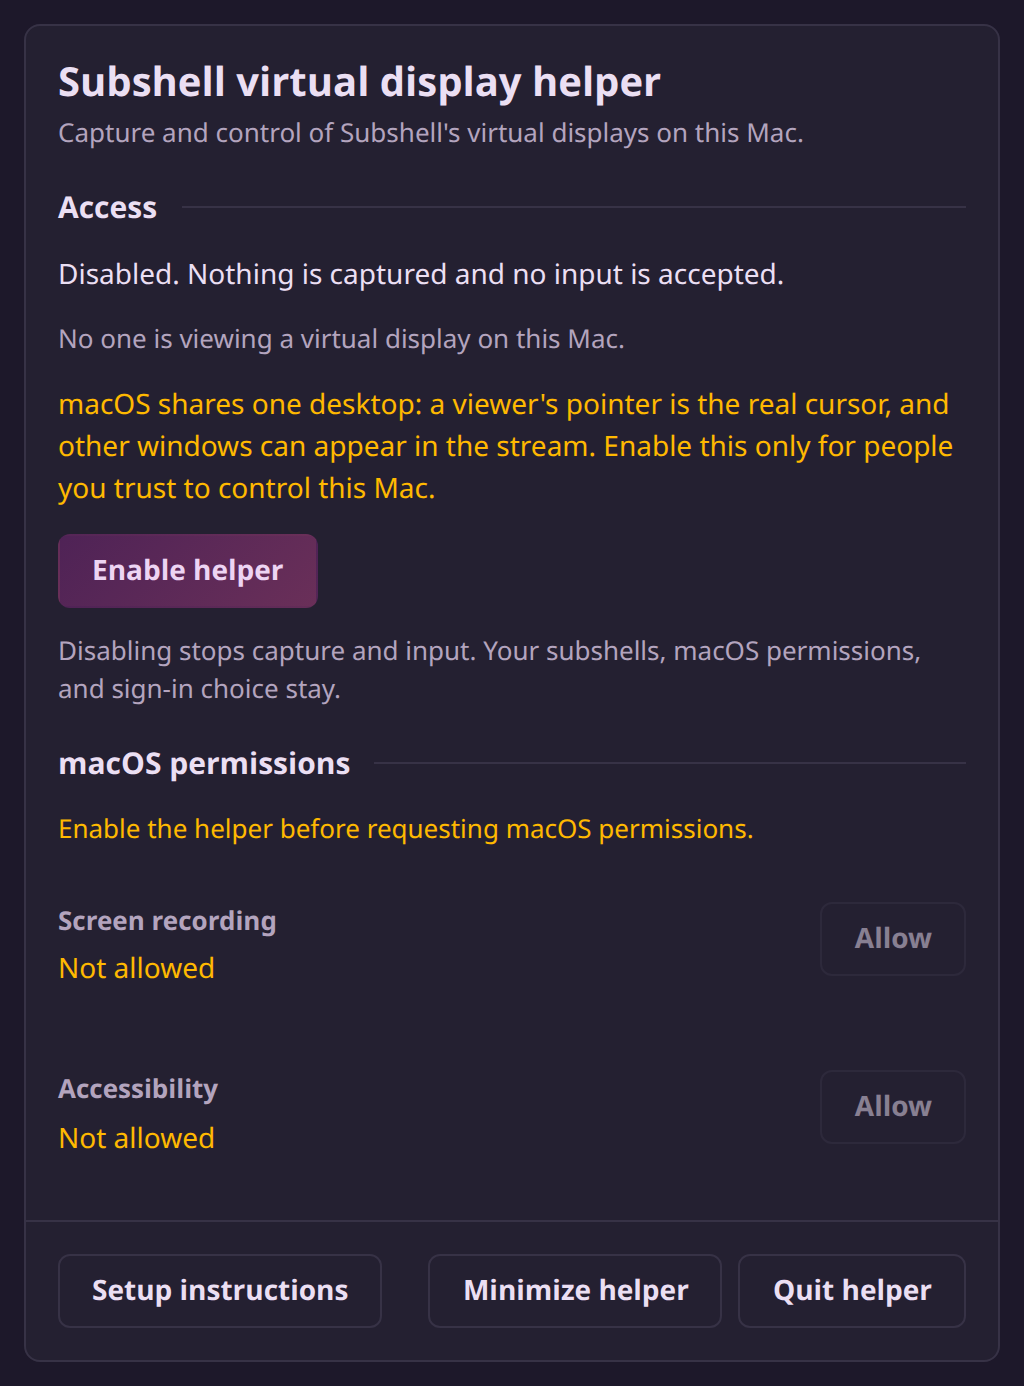
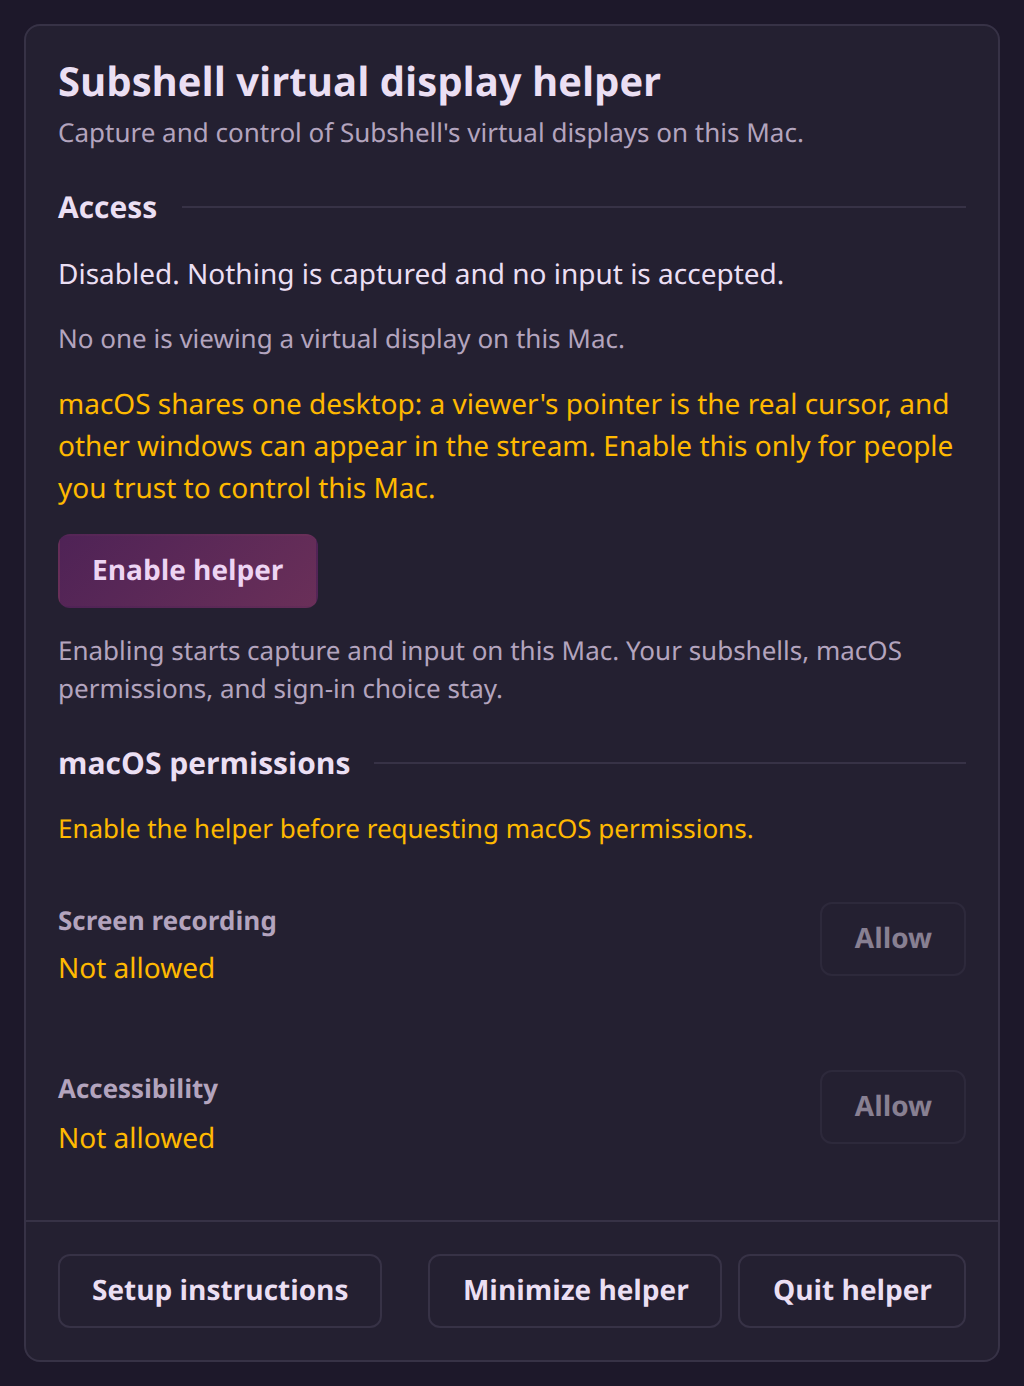
fix(web,helper): the consent note names its own act, and one answer per page load
The panel served one note for both states of the consent button, so a screen
reader reaching "Enable helper" heard "Disabling stops capture and input". The
person deciding whether this Mac may be captured has only that announcement to
work from, and it described the opposite act. There are two sentences now,
picked by `state.enabled`, each tested to name its own button's verb and neither
promising a sign-in registration. The published enable-state screenshot was
re-captured with the corrected line.

The diagnostics preference had the same class of disagreement across two
surfaces. When the device refuses the write (private mode, quota), the header's
menu item bound to the set it attempted while the dock terminal re-read a store
that never changed, so the check appeared over a terminal that kept showing
nothing, and turning it off diverged worse. The module now keeps the page-load
answer once a write has been refused, so every instance on the page agrees, and
the test drives the pair rather than the one toggle that used to satisfy it.
The memory is module state, so both suites reset it: a leaked refused write
would otherwise answer for the next file in the shared worker.

Also collapsed the stacked duplicate comments my own edits left on the refusal
routing (two JSDoc blocks over one declaration, the older one describing the
pre-fix rule), and mirrored tmux's digit guard into the join probe's cursor read
[…]

Changed region(s): [[0.0625, 0.4654, 0.9062, 0.5274]]

diff --git a/apps/server/web/src/components/__tests__/workspace-pane-actions.test.tsx b/apps/server/web/src/components/__tests__/workspace-pane-actions.test.tsx
@@ -12,7 +12,7 @@ import { act, cleanup, fireEvent, render, renderHook, screen, waitFor } from "@t
 import { PaneFocusHeader } from "@/components/pane-focus-header";
 import { usePublishPaneDevices } from "@/hooks/use-pane-devices";
 import { usePaneDiagnostics } from "@/hooks/use-pane-diagnostics";
-import { paneDiagnosticsIds } from "@/lib/pane-diagnostics-pref";
+import { paneDiagnosticsIds, resetPaneDiagnosticsPrefForTests } from "@/lib/pane-diagnostics-pref";
 import { SUBSHELLS_QUERY_KEY } from "@/lib/query-keys";
 import { resetWorkspaceFocusForTests, setWorkspaceFocusedId } from "@/lib/workspace-focus";
 import type { SubshellView } from "@/types/subshell";
@@ -115,7 +115,7 @@ it("still switches the Diagnostics HUD on when the device refuses to store it", 
   // `localStorage.setItem = ...` would not simulate that here: happy-dom's
   // Storage is a proxy, so the assignment lands as a stored key and the real
   // write still happens. Swapping the global does block it, and the descriptor
-  // goes back in `finally` — happy-dom's localStorage is process-wide, and a
+  // goes back in `finally`: happy-dom's localStorage is process-wide, and a
   // leaking thrower would poison every later test in this worker.
   localStorage.removeItem("subshell.paneDiagnostics");
   const descriptor = Object.getOwnPropertyDescriptor(globalThis, "localStorage");
@@ -132,15 +132,25 @@ it("still switches the Diagnostics HUD on when the device refuses to store it", 
     writable: true,
   });
   try {
-    const { result } = renderHook(() => usePaneDiagnostics("first"));
-    act(() => result.current[1]());
-    expect(result.current[0]).toBe(true);
+    // Two instances, the way the workspace really has them: the header's menu
+    // and the dock terminal below it each hold their own hook. One binding to
+    // the attempted set while the other re-reads an unwritable store is the
+    // divergence this pins shut, so the assertion covers the pair, not the
+    // toggle that made it.
+    const { result: header } = renderHook(() => usePaneDiagnostics("first"));
+    const { result: terminal } = renderHook(() => usePaneDiagnostics("first"));
+    act(() => header.current[1]());
+    expect(header.current[0]).toBe(true);
+    expect(terminal.current[0]).toBe(true);
     // Only the first press is asserted: with the write refused the set never
     // accumulates anywhere, so a second press reads back empty and turns it on
     // again. That is the preference layer's behavior for every caller (the
     // subshell page reads the same way), not something this hook can fix.
   } finally {
     if (descriptor) Object.defineProperty(globalThis, "localStorage", descriptor);
+    // Same module, shared worker: the refused write left a page-load memory
+    // behind that the next file would otherwise read as its own truth.
+    resetPaneDiagnosticsPrefForTests();
   }
 });
 

diff --git a/apps/server/web/src/lib/create-subshell-error.ts b/apps/server/web/src/lib/create-subshell-error.ts
@@ -3,25 +3,23 @@ import { ApiError, errMessage } from "@internal/node-admin";
 
 /**
  * The words a create-path refusal carries when the VIRTUAL DISPLAY is what
- * failed, either as the thrown detail or inside the plane's remedy sentence
- * (the screen-launch mirror in `apps/server/api/src/modules/previews/refusals.ts`
+ * failed, either as the thrown detail or inside the plane's remedy sentence (the
+ * screen-launch mirror in `apps/server/api/src/modules/previews/refusals.ts`
  * names every node word, and the service's switch preflight names the same
- * `preview-node-off` voice the node's own launch gate uses). A refusal
- * carrying one of these is shown beside the Virtual display control it
- * belongs to, not at the bottom of the form: the design rule is that a
- * warning sits at the decision point, and these refusals are that checkbox's
- * result. `preview-node-off` is display-owned HERE because nothing else on
- * the create path can answer with it: browser previews are refused by the
- * view routes, not by `POST /api/subshells`.
- */
-/**
- * The mirror's own shape, not a bare substring: `screenLaunchRemedy` and the
- * service's switch preflight both finish the sentence with the word in a
- * parenthesized group at the tail (`… (preview-display-not-ready: …)`), and
- * that position is the only thing that tells this refusal apart from a person
- * whose PRESET happens to be named `preview-display-test`. The create path
- * interpolates that name into `Preset "…" is disabled`, so a free substring
- * would blame the **Virtual display** checkbox for a preset-state 409.
+ * `preview-node-off` voice the node's own launch gate uses). A refusal carrying
+ * one of these is shown beside the Virtual display control it belongs to, not at
+ * the bottom of the form: the design rule is that a warning sits at the decision
+ * point, and these refusals are that checkbox's result. `preview-node-off` is
+ * display-owned HERE because nothing else on the create path can answer with it:
+ * browser previews are refused by the view routes, not by `POST /api/subshells`.
+ *
+ * Matched as the mirror's own tail group rather than a bare substring:
+ * `screenLaunchRemedy` and the preflight both finish the sentence with the word
+ * in parentheses (`… (preview-display-not-ready: …)`), and that position is what
+ * tells this refusal apart from a person whose PRESET is named
+ * `preview-display-test`. The create path interpolates that name into
+ * `Preset "…" is disabled`, so a free substring would blame the **Virtual
+ * display** checkbox for a preset-state 409.
  */
 const DISPLAY_REFUSAL_TAIL = /\((?:preview-display-[a-z0-9-]+|preview-node-off)(?::.*?)?\)\s*$/;
 

diff --git a/apps/server/web/src/lib/display-refusal-routing.ts b/apps/server/web/src/lib/display-refusal-routing.ts
@@ -1,25 +1,14 @@
 import { isDisplayLaunchRefusal } from "@/lib/create-subshell-error";
 
 /**
- * Which line a launch refusal is shown on.
- *
- * A refusal about the virtual display belongs beside the **Virtual display**
- * checkbox that caused it, because that is the control the person would change.
- * The checkbox is mounted only by the agent branch of the launch form, and the
- * mode and kind toggles can unmount it while the error stays set, so the rule
- * needs both halves: the field owns it while it exists, and the form line takes
- * it back when it does not. A refusal nobody can read is worse than one shown
- * in two places, and this is what "exactly one place" has to mean.
- */
-/**
  * Whether the **Virtual display** field is the one that hosts a display refusal:
  * the agent branch is mounted AND the box is switched on.
  *
- * The three dialogs used to write this condition inline, which meant the whole
- * rule lived in a line no test reached: drop the box term and a refusal under an
- * unchecked checkbox lands on a field that hides it, with the form line also
- * empty, so the message disappears with every suite green. One function, one
- * unit test, and the field's own `checked` guard as a second layer.
+ * The rule lives here because the failure mode is silence. When each dialog
+ * wrote the condition inline, dropping the box term handed a refusal to a field
+ * that hides it while the form line stayed empty, and no suite noticed. Each
+ * dialog now derives one `agentBranch` boolean that both this call and its own
+ * JSX read, and the field keeps its own `checked` guard as a second layer.
  */
 export function displayFieldOwnsRefusal({
   mounted,
@@ -31,6 +20,17 @@ export function displayFieldOwnsRefusal({
   return mounted && virtualDisplay === true;
 }
 
+/**
+ * Which line a launch refusal is shown on.
+ *
+ * A refusal about the virtual display belongs beside the **Virtual display**
+ * checkbox that caused it, because that is the control the person would change.
+ * The checkbox is mounted only by the agent branch of the launch form, and the
+ * mode and kind toggles can unmount it while the error stays set, so the rule
+ * needs both halves: the field owns it while it exists, and the form line takes
+ * it back when it does not. A refusal nobody can read is worse than one shown
+ * in two places, and this is what "exactly one place" has to mean.
+ */
 export function splitLaunchError(
   error: string | null,
   showsDisplayField: boolean,

diff --git a/apps/server/web/src/lib/pane-diagnostics-pref.ts b/apps/server/web/src/lib/pane-diagnostics-pref.ts
@@ -27,14 +27,22 @@ const KEY = "subshell.paneDiagnostics";
  * rather than thrown away wholesale, and a non-array parses to nothing,
  * never to an exception on every render.
  */
+let lastWritten: string[] | undefined;
+let writeRefused = false;
+
 export function paneDiagnosticsIds(): string[] {
+  // Once a write has been refused this page load, the attempted set IS the
+  // device's answer: storage still reads back the stale value, and two surfaces
+  // asking the same question (the workspace header's menu and the dock terminal
+  // beside it) would diverge on it, one checked and one not.
+  if (writeRefused && lastWritten !== undefined) return [...lastWritten];
   try {
     const raw = localStorage.getItem(KEY);
     if (!raw) return [];
     const parsed: unknown = JSON.parse(raw);
     return Array.isArray(parsed) ? parsed.filter((entry): entry is string => typeof entry === "string") : [];
   } catch {
-    return [];
+    return lastWritten ? [...lastWritten] : [];
   }
 }
 
@@ -55,14 +63,29 @@ const CHANGE_EVENT = "subshell:pane-diagnostics-change";
  */
 export function setPaneDiagnosticsIds(ids: readonly string[]): string[] {
   const next = [...ids];
+  lastWritten = next;
   try {
     localStorage.setItem(KEY, JSON.stringify(next));
   } catch {
-    // Storage refused: the choice still holds for this page load, which is
-    // the part the user is looking at.
+    // Storage refused (private mode, quota): the choice still holds for this
+    // page load, and `paneDiagnosticsIds` now answers from it so every
+    // instance on the page agrees rather than half of them reading a stale
+    // store they cannot write.
+    writeRefused = true;
   }
   window.dispatchEvent(new Event(CHANGE_EVENT));
   return next;
+}
+
+/**
+ * Drops the page-load memory of what was written. For tests only: the module
+ * keeps one answer across a page load on purpose, and a suite that shares this
+ * worker would otherwise read another file's refused write as its own state.
+ * @internal
+ */
+export function resetPaneDiagnosticsPrefForTests(): void {
+  lastWritten = undefined;
+  writeRefused = false;
 }
 
 /**

diff --git a/packages/helper-panel/src/__tests__/strings.test.ts b/packages/helper-panel/src/__tests__/strings.test.ts
@@ -100,13 +100,30 @@ describe("loginItemLine", () => {
   });
 });
 
-describe("enableNote", () => {
-  test("says only what turning it off costs", () => {
-    expect(strings.enableNote).toContain("stops capture and input");
-    // The note must not promise a sign-in start. Enabling no longer registers
-    // anything by itself, and that choice has its own row and its own control,
-    // so a second place claiming it is how the two start to disagree.
-    expect(strings.enableNote).not.toContain("starts at sign-in");
+describe("the consent button's note", () => {
+  test("each note names the act its own button performs", () => {
+    // One sentence served both states, so a screen reader reaching "Enable
+    // helper" heard "Disabling stops capture and input", and the person
+    // deciding whether this Mac may be captured has only that announcement to
+    // decide from. `main.ts` picks by `state.enabled`; these two must not be
+    // interchangeable.
+    expect(strings.enable).toBe("Enable helper");
+    expect(strings.disable).toBe("Disable helper");
+    expect(strings.enableNote).toContain("Enabling starts capture and input");
+    expect(strings.enableNote).not.toMatch(/Disabling/);
+    expect(strings.disableNote).toContain("Disabling stops capture and input");
+    expect(strings.disableNote).not.toMatch(/Enabling/);
+  });
+
+  test("neither note promises a sign-in start, and both say the rest stays", () => {
+    // Enabling no longer registers anything by itself, and that choice has its
+    // own row and control, so a second place claiming it is how the two start
+    // to disagree. What genuinely stays belongs in both sentences.
+    for (const note of [strings.enableNote, strings.disableNote]) {
+      expect(note).not.toContain("starts at sign-in");
+      expect(note).toContain("sign-in choice stay");
+      expect(note).toContain("macOS permissions");
+    }
   });
 
   test("offers the sign-in act that matches the state it leaves", () => {

diff --git a/apps/server/web/src/components/sidebar/new-workspace-dialog.tsx b/apps/server/web/src/components/sidebar/new-workspace-dialog.tsx
@@ -193,15 +193,12 @@ export function NewWorkspaceDialog({
     enter(id);
   }
 
-  // Where a refusal renders: the Virtual display checkbox owns it while that control
-  // is on screen and switched on, and the form line takes it back when either is
-  // not, so a display refusal is never both invisible and orphaned.
-  // ONE variable for "the agent branch is on screen", used both by the split
-  // below and by the JSX that mounts `NewSubshellForm`; duplicated, the two can
-  // drift, and the drift silences the refusal.
-  // ONE variable decides "the agent branch is on screen", read by both the
-  // split below and the JSX that mounts `NewSubshellForm`, so a refusal is never
-  // assigned to a field that was not rendered.
+  // ONE variable decides "the agent branch is on screen": the split below and the
+  // JSX that mounts `NewSubshellForm` both read it, because written twice the two
+  // can drift, and the drift silences the refusal (a display refusal handed to a
+  // field that was never rendered, with the form line empty too). The field owns
+  // it while that control is on screen and switched on; otherwise the form line
+  // takes it back, so it is never both invisible and orphaned.
   const agentBranch = !createdId && mode !== "existing" && !(kind === "ssh" && open);
   const { field: displayLaunchError, form: formLaunchError } = splitLaunchError(
     error,

diff --git a/apps/server/web/src/components/sidebar/launch-subshell-dialog.tsx b/apps/server/web/src/components/sidebar/launch-subshell-dialog.tsx
@@ -105,15 +105,11 @@ export function LaunchSubshellDialog({
     }
   }
 
-  // Where a refusal renders: the Virtual display checkbox owns it while that control
-  // is on screen and switched on, and the form line takes it back when either is
-  // not, so a display refusal is never both invisible and orphaned.
-  // ONE variable for "the agent branch is on screen", shared by the split below
-  // and by the JSX that mounts `NewSubshellForm`, so the two cannot drift apart
-  // and strand a refusal in a field nobody rendered.
-  // ONE variable decides "the agent branch is on screen", read by both the
-  // split below and the JSX that mounts `NewSubshellForm`; written twice the two
-  // can drift, and a refusal handed to an unmounted field is invisible.
+  // ONE variable decides "the agent branch is on screen": the split below and the
+  // JSX that mounts `NewSubshellForm` both read it, because written twice the two
+  // can drift, and the drift silences the refusal. The field owns a display
+  // refusal while that control is on screen and switched on; otherwise the form
+  // line takes it back, so it is never both invisible and orphaned.
   const agentBranch = !(kind === "ssh" && open);
   const { field: displayLaunchError, form: formLaunchError } = splitLaunchError(
     error,

diff --git a/packages/helper-panel/src/strings.ts b/packages/helper-panel/src/strings.ts
@@ -19,7 +19,14 @@ export const strings = {
   permissions: "macOS permissions",
   enable: "Enable helper",
   disable: "Disable helper",
-  enableNote: "Disabling stops capture and input. Your subshells, macOS permissions, and sign-in choice stay.",
+  /* What the consent button's own note says, per the act it labels. One string
+   * for both states described the WRONG act: a screen reader reaching the
+   * "Enable helper" control heard "Disabling stops capture and input", and the
+   * person deciding whether to be captured has only that announcement. Gold
+   * `detail` text, the same size either way; `main.ts` picks by `state.enabled`. */
+  enableNote:
+    "Enabling starts capture and input on this Mac. Your subshells, macOS permissions, and sign-in choice stay.",
+  disableNote: "Disabling stops capture and input. Your subshells, macOS permissions, and sign-in choice stay.",
   /* The sign-in choice is the person's own, so each state offers the one act
    * that changes it: register, stop registering, or go where macOS is waiting
    * for approval. Enabling the helper never registers anything by itself. */

diff --git a/apps/server/web/scripts/probe-join.ts b/apps/server/web/scripts/probe-join.ts
@@ -36,9 +36,16 @@ const paneGeo = () => {
   const [c, r] = tmux(["display-message", "-t", id, "-p", "#{pane_width}:#{pane_height}"]).trim().split(":");
   return { cols: Number(c), rows: Number(r) };
 };
-/** Reads EXACTLY like the agent's paneCursor, empty-field bug included. */
+/**
+ * Reads EXACTLY like the agent's `paneCursor`, including the digit guard
+ * `tmux-runner.ts` added: tmux can print `":"` for a pane caught mid-redraw and
+ * `Number("")` is 0, so a lenient parse anchors the replay at the top-left cell
+ * and reports a drift production no longer has. The probe's whole product is
+ * fidelity to production, so the two reads move together or the probe lies.
+ */
 const paneCursor = () => {
   const out = tmux(["display-message", "-t", id, "-p", "#{cursor_x}:#{cursor_y}"]).trim();
+  if (!/^\d+:\d+$/.test(out)) return null;
   const [rawX, rawY] = out.split(":");
   const x = Number(rawX);
   const y = Number(rawY);

diff --git a/apps/server/web/src/lib/__tests__/pane-diagnostics-pref.test.ts b/apps/server/web/src/lib/__tests__/pane-diagnostics-pref.test.ts
@@ -1,9 +1,19 @@
 import { afterEach, describe, expect, it } from "bun:test";
-import { paneDiagnosticsIds, setPaneDiagnosticsIds, togglePaneDiagnostics } from "@/lib/pane-diagnostics-pref";
+import {
+  paneDiagnosticsIds,
+  resetPaneDiagnosticsPrefForTests,
+  setPaneDiagnosticsIds,
+  togglePaneDiagnostics,
+} from "@/lib/pane-diagnostics-pref";
 
 describe("pane diagnostics preference (per-device, per-subshell)", () => {
   const KEY = "subshell.paneDiagnostics";
-  afterEach(() => localStorage.removeItem(KEY));
+  afterEach(() => {
+    localStorage.removeItem(KEY);
+    // The page-load memory is module state; leaving it set would let an earlier
+    // case's refused write answer for the next one.
+    resetPaneDiagnosticsPrefForTests();
+  });
 
   it("defaults to nothing on: a subshell nobody has diagnosed reads off", () => {
     expect(paneDiagnosticsIds()).toEqual([]);

diff --git a/packages/helper-panel/src/main.ts b/packages/helper-panel/src/main.ts
@@ -238,7 +238,11 @@ function render(state: PanelState): void {
     state.enabled ? "disable" : "enable",
     "primary",
   );
-  const note = element("p", "note", strings.enableNote);
+  // The note names the act THIS button performs. Shared, it told a screen
+  // reader reaching "Enable helper" that disabling stops capture, so the person
+  // deciding whether to be captured heard the opposite of what they were about
+  // to do.
+  const note = element("p", "note", state.enabled ? strings.disableNote : strings.enableNote);
   note.id = "enable-note";
   toggle.setAttribute("aria-describedby", "enable-note");
   content.append(
